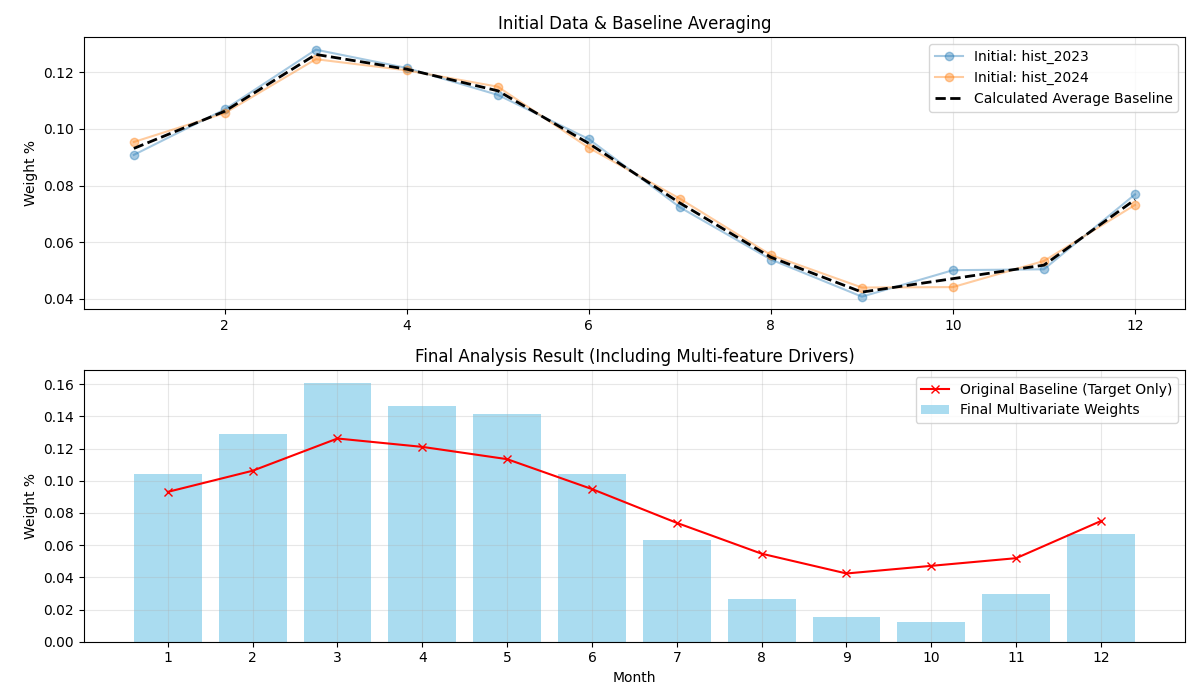
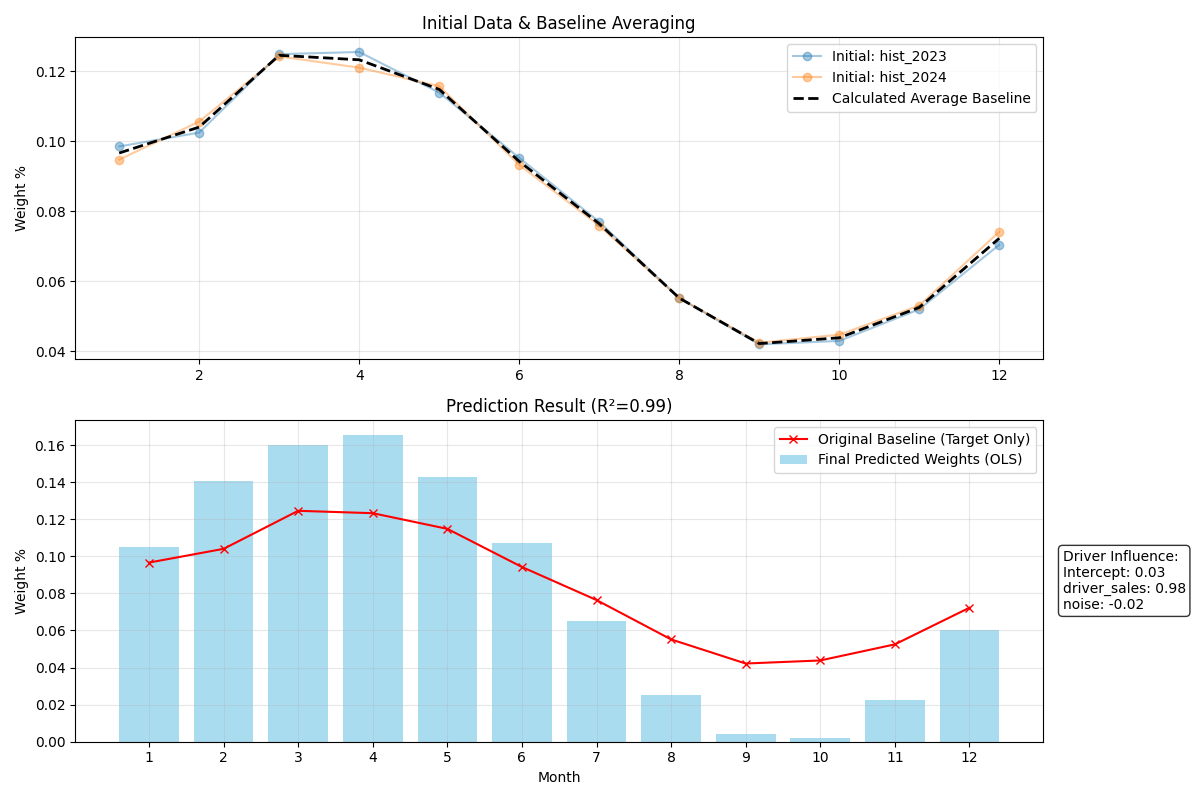
feat: upgrade seasonal analysis to use multiple linear regression (OLS) for prediction

diff --git a/src/services/split_analyzer.py b/src/services/split_analyzer.py
@@ -1,21 +1,22 @@
 # src/services/split_analyzer.py
 import pandas as pd
 import numpy as np
-from typing import Dict, List, Optional
+from typing import Dict, List, Optional, Tuple
 
 def analyze_seasonality_from_file(
     file_path: str, 
-    target_cols: List[str], # Changed to List
+    target_cols: List[str],
     feature_cols: List[str], 
     date_col: str, 
     period_type: str
-) -> Dict[str, float]:
+) -> Tuple[Dict[str, float], Dict[str, float], float]:
     """
-    Performs multivariate seasonality analysis.
-    Uses a weighted correlation approach:
-    1. Aggregates target(s) and features by the chosen Period.
-    2. Calculates baseline weights by averaging all provided Target Columns.
-    3. Refines the baseline using correlated features.
+    Performs multivariate seasonality analysis using Multiple Linear Regression (OLS).
+    
+    Returns:
+        - weights: {period_idx: weight} (sum = 1.0)
+        - coefficients: {feature_name: coefficient} (Driver Influence)
+        - r_squared: Model accuracy score (0-1)
     """
     # Load data
     df = pd.read_csv(file_path) if file_path.endswith('.csv') else pd.read_excel(file_path)
@@ -42,50 +43,61 @@ def analyze_seasonality_from_file(
         
     grouped = df.groupby('period_idx').agg(agg_dict).reset_index()
 
+    # Prepare Y (Target): Average of normalized historical targets
     def normalize(s):
         return (s - s.min()) / (s.max() - s.min()) if (s.max() - s.min()) != 0 else s
 
-    # 1. Calculate Baseline Seasonality (Average of all Target Columns)
     normalized_targets = pd.DataFrame()
     for col in target_cols:
         normalized_targets[col] = normalize(grouped[col])
     
-    base_seasonality = normalized_targets.mean(axis=1)
+    y = normalized_targets.mean(axis=1).values
 
+    # Base case: No features -> Use historical average directly
     if not feature_cols:
-        # Final Normalization of baseline
-        final_sum = base_seasonality.sum()
-        if final_sum == 0: return {str(p): 1.0/len(grouped) for p in grouped['period_idx']}
-        weights = base_seasonality / final_sum
-        return {str(int(p)): float(weights[i]) for i, p in enumerate(grouped['period_idx'])}
+        final_sum = y.sum()
+        if final_sum == 0: 
+            weights = {str(int(p)): 1.0/len(grouped) for p in grouped['period_idx']}
+        else:
+            weights = {str(int(p)): float(val/final_sum) for p, val in zip(grouped['period_idx'], y)}
+        return weights, {}, 1.0
 
-    # 2. Multivariate Logic
-    # Calculate correlations against the AVERAGE baseline target
-    correlations = {}
-    normalized_features = pd.DataFrame()
+    # Prepare X (Features): Drivers + Intercept
+    X_raw = pd.DataFrame()
     for col in feature_cols:
-        normalized_features[col] = normalize(grouped[col])
-        corr = base_seasonality.corr(normalized_features[col])
-        correlations[col] = abs(corr) if not np.isnan(corr) else 0.0
-
-    total_corr = sum(correlations.values())
+        X_raw[col] = normalize(grouped[col])
     
-    feature_seasonality = pd.Series(0.0, index=grouped.index)
-    if total_corr > 0:
-        for col in feature_cols:
-            weight = correlations[col] / total_corr
-            feature_seasonality += normalized_features[col] * weight
+    # Add intercept column
+    X = np.c_[np.ones(X_raw.shape[0]), X_raw.values] 
+
+    # Fit OLS Model: y = X*beta
+    # beta = (X^T X)^-1 X^T y
+    # using lstsq for stability
+    beta, residuals, rank, s = np.linalg.lstsq(X, y, rcond=None)
+
+    # Predict
+    y_pred = X @ beta
+    
+    # Ensure non-negative predictions for seasonality weights
+    y_pred = np.maximum(y_pred, 0)
+
+    # Normalize prediction to sum to 1.0
+    total_pred = y_pred.sum()
+    if total_pred == 0:
+        final_weights = {str(int(p)): 1.0/len(grouped) for p in grouped['period_idx']}
     else:
-        feature_seasonality = base_seasonality
+        final_weights = {str(int(p)): float(val/total_pred) for p, val in zip(grouped['period_idx'], y_pred)}
 
-    # 3. Combine: 60% historical average, 40% correlated drivers
-    combined = (base_seasonality * 0.6) + (feature_seasonality * 0.4)
-    
-    final_sum = combined.sum()
-    if final_sum == 0: 
-        return {str(int(p)): 1.0/len(grouped) for p in grouped['period_idx']}
-    
-    final_weights = combined / final_sum
-    
-    result = {str(int(row['period_idx'])): float(final_weights[i]) for i, row in grouped.iterrows()}
-    return result
+    # Calculate Metrics
+    # R^2 = 1 - (SS_res / SS_tot)
+    ss_res = np.sum((y - y_pred)**2)
+    ss_tot = np.sum((y - np.mean(y))**2)
+    r_squared = 1 - (ss_res / ss_tot) if ss_tot > 0 else 0.0
+
+    # Map coefficients to feature names
+    # beta[0] is intercept, beta[1:] are features
+    coefficients = {"Intercept": float(beta[0])}
+    for idx, col in enumerate(feature_cols):
+        coefficients[col] = float(beta[idx+1])
+
+    return final_weights, coefficients, float(r_squared)

diff --git a/src/interfaces/tkinter_app/dialogs/advanced_split_dialog.py b/src/interfaces/tkinter_app/dialogs/advanced_split_dialog.py
@@ -76,7 +76,7 @@ class AdvancedSplitDialog(tk.Toplevel):
         ttk.Button(btn_f, text="🚀 Run Multivariate Seasonality Analysis", command=self._run_analysis, style="Action.TButton").pack(side="top", fill="x")
         
         # Results area
-        self.res_text = tk.Text(main, height=8, font=("Courier", 9), state="disabled", background="#F8F9FA")
+        self.res_text = tk.Text(main, height=12, font=("Courier", 9), state="disabled", background="#F8F9FA")
         self.res_text.pack(fill="x", pady=10)
         
         # Footer
@@ -129,7 +129,8 @@ class AdvancedSplitDialog(tk.Toplevel):
             return
 
         try:
-            weights = split_analyzer.analyze_seasonality_from_file(
+            # Call new regression-based service
+            weights, coefficients, r_squared = split_analyzer.analyze_seasonality_from_file(
                 self.file_path.get(),
                 selected_targets,
                 selected_features,
@@ -140,8 +141,19 @@ class AdvancedSplitDialog(tk.Toplevel):
             
             self.res_text.config(state="normal")
             self.res_text.delete("1.0", "end")
-            self.res_text.insert("1.0", f"Multivariate Results (Targets: {len(selected_targets)}, Features: {len(selected_features)}):\n\n")
             
+            # Show Model Details
+            self.res_text.insert("1.0", f"=== Analysis Results ===\n")
+            self.res_text.insert("end", f"Model: Multiple Linear Regression (OLS)\n")
+            self.res_text.insert("end", f"R² Score: {r_squared:.4f} (Accuracy of fit)\n\n")
+            
+            if coefficients:
+                self.res_text.insert("end", "Driver Influence (Coefficients):\n")
+                for feat, coef in coefficients.items():
+                    self.res_text.insert("end", f"  - {feat}: {coef:.4f}\n")
+                self.res_text.insert("end", "\n")
+            
+            self.res_text.insert("end", "Predicted Seasonal Weights:\n")
             for p, w in sorted(weights.items(), key=lambda x: int(x[0]) if x[0].isdigit() else x[0]):
                 label = p
                 if self.period_var.get() == "Month":
@@ -149,9 +161,12 @@ class AdvancedSplitDialog(tk.Toplevel):
                     try: label = calendar.month_name[int(p)]
                     except: pass
                 self.res_text.insert("end", f"{label}: {w*100:.2f}%\n")
+            
             self.res_text.config(state="disabled")
             
         except Exception as e:
+            import traceback
+            print(traceback.format_exc())
             messagebox.showerror("Analysis Error", str(e))
 
     def _on_apply(self):

diff --git a/scripts/test_multivariate_analysis.py b/scripts/test_multivariate_analysis.py
@@ -41,9 +41,13 @@ def test_and_plot():
     feature_cols = ["driver_sales", "noise"]
     
     # Perform Analysis
-    weights = split_analyzer.analyze_seasonality_from_file(
+    weights, coefs, r2 = split_analyzer.analyze_seasonality_from_file(
         test_file, target_cols, feature_cols, "date", "Month"
     )
+    
+    print(f"Analysis Complete.")
+    print(f"R² Score: {r2:.4f}")
+    print("Coefficients:", coefs)
     
     # Prepare Plotting Data
     # 1. Historical Targets Aggregated by Month
@@ -59,7 +63,7 @@ def test_and_plot():
     result_vals = [weights[str(m)] for m in result_months]
     
     # Visualization
-    plt.figure(figsize=(12, 7))
+    plt.figure(figsize=(12, 8))
     
     # Plot Initial Historical Trends (Normalized)
     plt.subplot(2, 1, 1)
@@ -73,12 +77,18 @@ def test_and_plot():
     
     # Plot Result after Multivariate refinement
     plt.subplot(2, 1, 2)
-    plt.bar(result_months, result_vals, color='skyblue', alpha=0.7, label="Final Multivariate Weights")
+    plt.bar(result_months, result_vals, color='skyblue', alpha=0.7, label="Final Predicted Weights (OLS)")
     plt.plot(monthly_targets.index, baseline_avg, 'r-', marker='x', label="Original Baseline (Target Only)")
-    plt.title("Final Analysis Result (Including Multi-feature Drivers)")
+    plt.title(f"Prediction Result (R²={r2:.2f})")
     plt.xlabel("Month")
     plt.ylabel("Weight %")
     plt.xticks(range(1, 13))
+    
+    # Add text box for coefficients
+    text_str = "Driver Influence:\n" + "\n".join([f"{k}: {v:.2f}" for k, v in coefs.items()])
+    plt.text(1.02, 0.5, text_str, transform=plt.gca().transAxes, fontsize=10,
+             verticalalignment='center', bbox=dict(boxstyle='round', facecolor='white', alpha=0.8))
+    
     plt.legend()
     plt.grid(True, alpha=0.3)
     

diff --git a/conductor/PLAN_MULTIVARIATE_ML.md b/conductor/PLAN_MULTIVARIATE_ML.md
@@ -1,0 +1,50 @@
+# Plan: Advanced Multivariate Prediction
+
+## Objective
+Upgrade the seasonal analysis feature to support true multivariate prediction. The user wants to use multiple input variables (historical years + external drivers) to predict multiple output variables (future seasonal weights for target KPIs).
+
+## Mathematical Approach (ML Details)
+Since `scikit-learn` is unavailable, we will implement a **Multiple Linear Regression (MLR)** model using `numpy.linalg.lstsq`.
+
+**The Model:**
+$$Y = X\beta + \epsilon$$
+
+*   **X (Features):** Matrix where each row is a time period (e.g., Month 1, Month 2...) and columns are:
+    *   Historical Target Averages (e.g., avg of 2022, 2023)
+    *   External Drivers (e.g., Temperature, Economic Index)
+    *   (Optional) Lagged variables for auto-regression
+*   **Y (Targets):** The seasonal weights we want to predict. Since we don't have "future truth" to train on in a standard supervised way, we will use a **"Hindcast" Training Strategy**:
+    *   **Training:** Train the model to predict *Total Volume* or *Target Value* for past periods based on the drivers.
+    *   **Prediction:** Use the trained coefficients $\beta$ to predict values for the *next* cycle (e.g., next 12 months).
+    *   **Normalization:** Convert the predicted absolute values into seasonal percentages (sum = 100%).
+
+## Implementation Steps
+
+### 1. Service Layer (`src/services/split_analyzer.py`)
+*   **Refactor `analyze_seasonality_from_file`:**
+    *   Accept `target_cols` (History) and `feature_cols` (Drivers).
+    *   Implement `train_predict_model(df, targets, features)`:
+        1.  Prepare `X` matrix (features + intercept).
+        2.  Prepare `y` vector (historical target sum).
+        3.  Fit $\beta$ using `np.linalg.lstsq(X, y, rcond=None)[0]`.
+        4.  Predict `y_pred` using the same `X` (assuming drivers effectively represent the "seasonal shape").
+        5.  *Self-Correction:* If drivers are provided for future dates (e.g., forecast weather), we could use those. For now, we assume the relationship between drivers and seasonality holds constant.
+*   **Output:** Return dictionary of weights `{ "1": 0.05, "2": 0.10 ... }`.
+*   **Metadata:** Return "Model Details" string explaining the coefficients (Driver Influence).
+
+### 2. UI Updates (`AdvancedSplitDialog`)
+*   **Inputs:**
+    *   Existing Multi-select for "Historical Targets" (Input Y).
+    *   Existing Multi-select for "Features" (Input X).
+*   **Outputs:**
+    *   Display "Prediction Details":
+        *   "Model Used: Multiple Linear Regression (OLS)"
+        *   "Driver Importance": Show coefficients for each feature to explain *why* the split is shaped that way.
+        *   "R² Score": A simple metric to show how well the drivers explain the historical variance.
+
+### 3. Verification
+*   Update `test_multivariate_analysis.py` to use the new regression logic and print the "Model Details".
+
+## ML Explanation for User
+The tool will explicitly state:
+"We use **Multiple Linear Regression (Ordinary Least Squares)** to find the mathematical relationship between your drivers (Features) and your historical volume (Targets). The resulting 'weights' are predicted based on this learned relationship."
